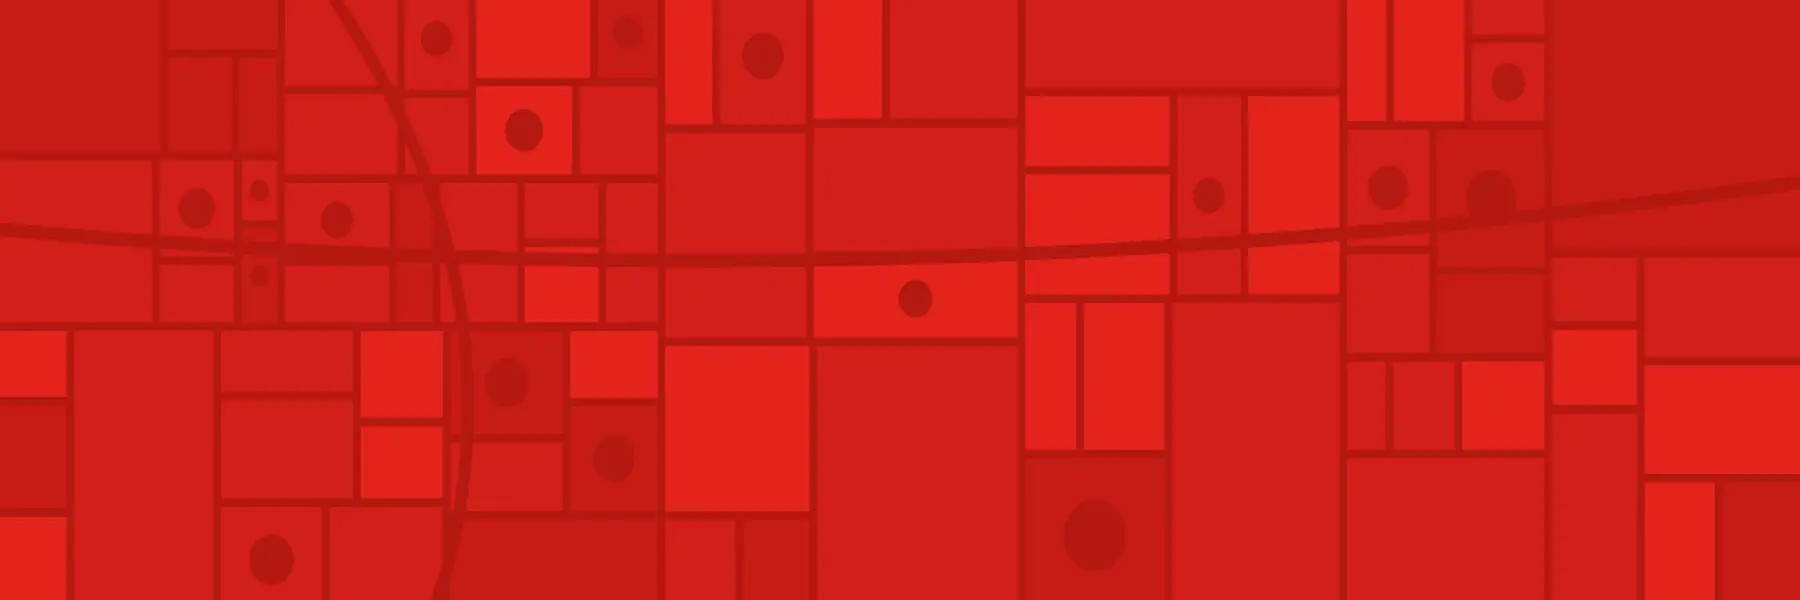
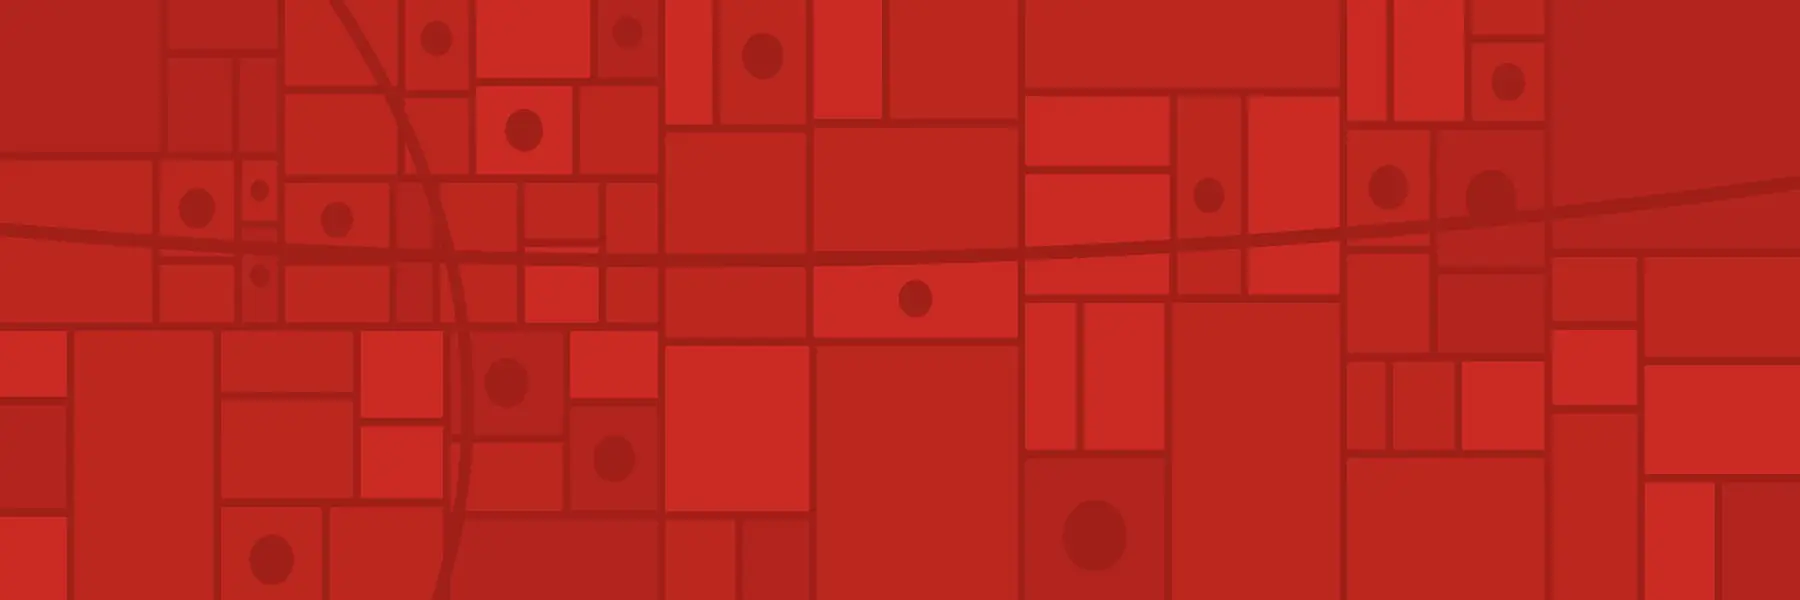
Keep the menu on screen, align rows at the top, calmer red, YouTube channel link

diff --git a/src/css/site.css b/src/css/site.css
@@ -1,6 +1,6 @@
 /* Placemaking Bangladesh */
 :root{
-  --green:#046B52; --deep:#06382C; --red:#E3231C; --red-press:#B91A14;
+  --green:#046B52; --deep:#06382C; --red:#CB2B23; --red-press:#A6211A;
   --paper:#FBF7F0; --sand:#F1E6D4; --ink:#14211D; --muted:#46564F; --rule:#D9CDB8;
   --on-deep:#CFE3DA; --edge:#3F7D6B;
   --wrap:1240px; --pad:clamp(20px,4.5vw,64px);
@@ -59,9 +59,8 @@ section{padding-block:var(--space)}
 .arrow-link.on-dark{color:var(--paper)}
 
 /* ── Header ── */
-.site-head{position:sticky;top:0;z-index:40;background:color-mix(in srgb,var(--paper) 92%,transparent);backdrop-filter:blur(10px);border-bottom:1px solid transparent;transition:border-color .3s,transform .4s var(--ease)}
+.site-head{position:sticky;top:0;z-index:40;background:color-mix(in srgb,var(--paper) 92%,transparent);backdrop-filter:blur(10px);border-bottom:1px solid transparent;transition:border-color .3s}
 .site-head.scrolled{border-color:var(--rule)}
-.site-head.hide{transform:translateY(-100%)}
 .site-head .in{max-width:1440px;margin-inline:auto;padding-inline:var(--pad);height:var(--head-h);display:flex;align-items:center;justify-content:space-between;gap:24px}
 .brand img{height:42px;width:auto}
 .site-nav{display:flex;align-items:center;gap:clamp(4px,1.6vw,26px)}
@@ -165,7 +164,7 @@ figcaption{margin-top:12px;font-size:14px;color:var(--muted)}
 .deep .story p{color:var(--on-deep)}
 
 /* ── Partners ── */
-.partner-row{display:grid;grid-template-columns:repeat(4,minmax(0,1fr));gap:var(--gap);margin-top:clamp(28px,4vw,56px)}
+.partner-row{align-items:start;display:grid;grid-template-columns:repeat(4,minmax(0,1fr));gap:var(--gap);margin-top:clamp(28px,4vw,56px)}
 .partner{display:flex;align-items:center;gap:16px;text-decoration:none;padding-top:20px;border-top:1px solid var(--rule)}
 .partner .logo{flex:none;width:72px;aspect-ratio:1;border-radius:6px;overflow:clip;background:#fff}
 .partner .logo img{width:100%;height:100%;object-fit:cover;transition:transform .5s var(--ease)}
@@ -196,8 +195,7 @@ a.partner:hover strong{color:var(--green)}
 .feature-story .play,.feature-story .video-frame{grid-row:1 / span 2}
 .feature-story .story h2{font-size:clamp(24px,2.6vw,38px);margin:0;align-self:end;line-height:1.1}
 .feature-story .story p{font-size:17px;align-self:start;margin-top:16px}
-.story-grid{display:grid;grid-template-columns:repeat(3,minmax(0,1fr));gap:clamp(32px,4vw,56px) var(--gap)}
-.story-grid .story:nth-child(3n+2){margin-top:clamp(0px,5vw,72px)}
+.story-grid{align-items:start;display:grid;grid-template-columns:repeat(3,minmax(0,1fr));gap:clamp(32px,4vw,56px) var(--gap)}
 .golpo .grid{align-items:center}
 .golpo-poster{grid-column:1 / span 5}
 .golpo-poster img{width:100%;border-radius:6px}
@@ -214,9 +212,8 @@ a.partner:hover strong{color:var(--green)}
 .post.feature{display:grid;grid-template-columns:minmax(0,7fr) minmax(0,5fr);column-gap:var(--gap);align-items:center}
 .post.feature .thumb img{aspect-ratio:16/11}
 .post.feature h2{font-size:clamp(28px,3.4vw,48px)}
-.posts{display:grid;grid-template-columns:repeat(3,minmax(0,1fr));gap:var(--gap);margin-top:var(--space)}
+.posts{align-items:start;display:grid;grid-template-columns:repeat(3,minmax(0,1fr));gap:var(--gap);margin-top:var(--space)}
 .posts .post .thumb{margin-bottom:22px}
-.posts .post:nth-child(2){margin-top:clamp(0px,5vw,72px)}
 .posts .arrow-link{margin-top:16px;font-size:16px}
 
 /* ── About ── */
@@ -230,8 +227,7 @@ a.partner:hover strong{color:var(--green)}
 .pull-line em{font-style:normal;color:#FFB9B5}
 .pull-line .w{display:inline-block}
 .pull-after{margin-top:clamp(20px,3vw,40px);font-size:clamp(18px,1.8vw,24px)}
-.people{display:grid;grid-template-columns:repeat(3,minmax(0,1fr));gap:var(--gap);margin-top:clamp(28px,4vw,56px)}
-.people .person:nth-child(2){margin-top:clamp(0px,5vw,72px)}
+.people{align-items:start;display:grid;grid-template-columns:repeat(3,minmax(0,1fr));gap:var(--gap);margin-top:clamp(28px,4vw,56px)}
 .person .face{aspect-ratio:1;border-radius:6px;overflow:clip;background:var(--sand);margin-bottom:20px}
 .person .face img{width:100%;height:100%;object-fit:cover;transition:transform .7s var(--ease)}
 .person:hover .face img{transform:scale(1.03)}
@@ -284,7 +280,6 @@ a.partner:hover strong{color:var(--green)}
   .feature-story .story{grid-template-columns:1fr}
   .feature-story .story h2{margin-top:20px}
   .story-grid{grid-template-columns:1fr}
-  .story-grid .story:nth-child(3n+2),.posts .post:nth-child(2),.people .person:nth-child(2){margin-top:0}
   .golpo-poster{grid-column:1 / span 8}
   .golpo-copy{grid-column:1 / -1;margin-top:32px}
   .partner-row{grid-template-columns:repeat(2,minmax(0,1fr))}

diff --git a/src/js/site.js b/src/js/site.js
@@ -15,15 +15,9 @@
   addEventListener('keydown', e => { if (e.key === 'Escape' && nav.classList.contains('open')) { setMenu(false); btn.focus(); } });
   matchMedia('(min-width: 901px)').addEventListener('change', () => setMenu(false));
 
-  // ── Header: a rule once the page has moved, and out of the way while reading down ──
+  // ── Header: always on screen, with a rule under it once the page has moved ──
   const head = $('.site-head');
-  let last = 0;
-  addEventListener('scroll', () => {
-    const y = scrollY;
-    head.classList.toggle('scrolled', y > 8);
-    head.classList.toggle('hide', y > 500 && y > last && !nav.classList.contains('open'));
-    last = y;
-  }, { passive: true });
+  addEventListener('scroll', () => head.classList.toggle('scrolled', scrollY > 8), { passive: true });
 
   // ── Videos: the player loads only when a story is pressed ──
   document.addEventListener('click', e => {

diff --git a/templates/home.html b/templates/home.html
@@ -37,7 +37,7 @@
   <svg class="wheel" id="wheel" viewBox="-110 -110 220 220" fill="none" stroke="currentColor" stroke-linecap="round" aria-hidden="true">
     <circle r="100" stroke-width="9"/><circle r="86" stroke-width="2"/>
     <g id="spokes" stroke-width="2.2"></g>
-    <circle r="13" fill="#E3231C" stroke="none"/><circle r="4" fill="#FBF7F0" stroke="none"/>
+    <circle r="13" fill="#CB2B23" stroke="none"/><circle r="4" fill="#FBF7F0" stroke="none"/>
   </svg>
   <script type="application/json" id="places">{{places_json}}</script>
 </section>
